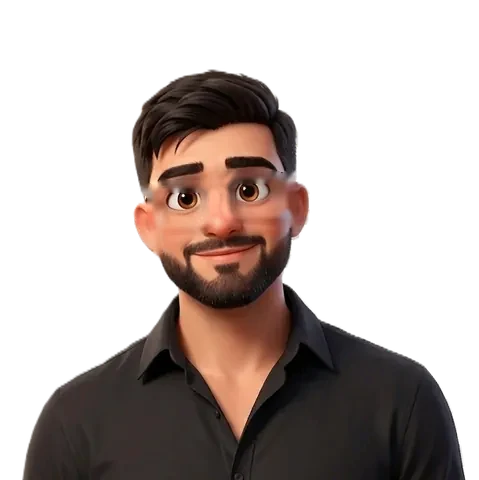
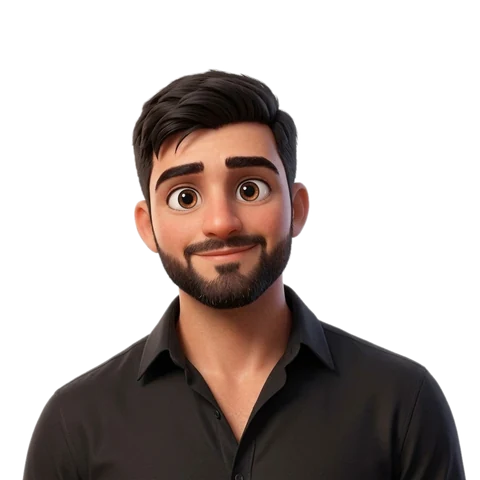
Caricatura nueva, campos de fecha que caben en iOS y borrados que avisan si fallan
- Avatar: la ilustración nueva sin gafas, con el fondo quitado (480 px)
- iOS: los campos de fecha y hora ya no imponen su ancho mínimo y no se salen del formulario
- Borrar gasto, recurrente, deuda, hucha o mantenimiento: si falla se muestra el error
  y el botón vuelve a pedir confirmación en vez de quedarse colgado

diff --git a/web/src/styles.css b/web/src/styles.css
@@ -169,6 +169,13 @@ a { color: inherit; }
 @media (max-width: 760px), (pointer: coarse) {
   input, select, textarea { font-size: max(16px, 1em) !important; }
 }
+/* iOS da a los campos de fecha y hora un ancho mínimo propio que ignora width: 100%
+   y los saca del formulario (y la página se puede mover de lado) */
+input[type='date'], input[type='time'], input[type='datetime-local'], input[type='month'] {
+  -webkit-appearance: none; appearance: none; display: block; min-width: 0; max-width: 100%; box-sizing: border-box;
+}
+input::-webkit-date-and-time-value { text-align: left; min-height: 1.2em; }
+input, select, textarea { max-width: 100%; box-sizing: border-box; }
 /* con un diálogo abierto, el fondo no se mueve */
 html:has(dialog[open]), html.menu-movil-abierto { overflow: hidden; }
 

diff --git a/web/src/app/gastos/mantenimiento.ts b/web/src/app/gastos/mantenimiento.ts
@@ -168,9 +168,15 @@ export class MantenimientoCoche {
 
   protected async borrar(): Promise<void> {
     if (!this.confirmar()) { this.confirmar.set(true); return; }
-    await this.g.borrarMantenimiento(this.editando()!.id);
-    this.dlg().nativeElement.close();
-    this.g.recargar();
+    try {
+      await this.g.borrarMantenimiento(this.editando()!.id);
+      this.dlg().nativeElement.close();
+      this.g.recargar();
+    } catch (err) {
+      // si no se pudo, se dice y el botón vuelve a pedir confirmación
+      this.confirmar.set(false);
+      this.errores.set(erroresDe(err));
+    }
   }
 
   protected fuera(e: MouseEvent): void { if (e.target === this.dlg().nativeElement) this.dlg().nativeElement.close(); }

diff --git a/web/src/app/gastos/dialogo-movimiento.ts b/web/src/app/gastos/dialogo-movimiento.ts
@@ -169,9 +169,15 @@ export class DialogoMovimiento {
 
   protected async borrar(): Promise<void> {
     if (!this.confirmarBorrado()) { this.confirmarBorrado.set(true); return; }
-    await this.gastos.borrarMovimiento(this.id()!);
-    this.cerrar();
-    this.gastos.recargar();
+    try {
+      await this.gastos.borrarMovimiento(this.id()!);
+      this.cerrar();
+      this.gastos.recargar();
+    } catch (err) {
+      // si no se pudo, se dice y el botón vuelve a pedir confirmación
+      this.confirmarBorrado.set(false);
+      this.errores.set(erroresDe(err));
+    }
   }
 
   protected cerrar(): void { this.dialogo().nativeElement.close(); }

diff --git a/web/src/app/gastos/huchas.ts b/web/src/app/gastos/huchas.ts
@@ -214,9 +214,15 @@ export class Huchas {
 
   protected async borrar(): Promise<void> {
     if (!this.confirmar()) { this.confirmar.set(true); return; }
-    await this.g.borrarHucha(this.editando()!.id);
-    this.dlg().nativeElement.close();
-    this.g.recargar();
+    try {
+      await this.g.borrarHucha(this.editando()!.id);
+      this.dlg().nativeElement.close();
+      this.g.recargar();
+    } catch (err) {
+      // si no se pudo, se dice y el botón vuelve a pedir confirmación
+      this.confirmar.set(false);
+      this.errores.set(erroresDe(err));
+    }
   }
 
   protected async aportar(h: Hucha, v: number): Promise<void> {

diff --git a/web/src/app/gastos/dialogo-fijo.ts b/web/src/app/gastos/dialogo-fijo.ts
@@ -93,9 +93,15 @@ export class DialogoFijo {
 
   protected async borrar(): Promise<void> {
     if (!this.confirmarBorrado()) { this.confirmarBorrado.set(true); return; }
-    await this.gastos.borrarFijo(this.id()!);
-    this.cerrar();
-    this.gastos.recargar();
+    try {
+      await this.gastos.borrarFijo(this.id()!);
+      this.cerrar();
+      this.gastos.recargar();
+    } catch (err) {
+      // si no se pudo, se dice y el botón vuelve a pedir confirmación
+      this.confirmarBorrado.set(false);
+      this.errores.set(erroresDe(err));
+    }
   }
 
   protected cerrar(): void { this.dialogo().nativeElement.close(); }

diff --git a/web/src/app/gastos/deudas.ts b/web/src/app/gastos/deudas.ts
@@ -309,9 +309,15 @@ export class Deudas {
 
   protected async borrar(): Promise<void> {
     if (!this.confirmar()) { this.confirmar.set(true); return; }
-    await this.g.borrarDeuda(this.editando()!.id);
-    this.dlgDeuda().nativeElement.close();
-    this.g.recargar();
+    try {
+      await this.g.borrarDeuda(this.editando()!.id);
+      this.dlgDeuda().nativeElement.close();
+      this.g.recargar();
+    } catch (err) {
+      // si no se pudo, se dice y el botón vuelve a pedir confirmación
+      this.confirmar.set(false);
+      this.errores.set(erroresDe(err));
+    }
   }
 
   private soltar?: () => void;

diff --git a/web/src/app/core/perfil.service.ts b/web/src/app/core/perfil.service.ts
@@ -16,7 +16,7 @@ export class PerfilService {
     if (!d) return null;
     return d.nombre ? `${d.nombre} ${d.apellidos ?? ''}`.trim() : d.usuario;
   });
-  readonly foto = computed(() => (this.datos()?.foto ? `/api/perfil/foto?v=${this.version()}` : 'img/avatar.webp?v=2'));
+  readonly foto = computed(() => (this.datos()?.foto ? `/api/perfil/foto?v=${this.version()}` : 'img/avatar.webp?v=3'));
 
   async cargar(): Promise<void> {
     try { this.datos.set(await firstValueFrom(this.http.get<DatosPerfil>('/api/perfil'))); } catch { /* sin conexión: se queda el usuario */ }
